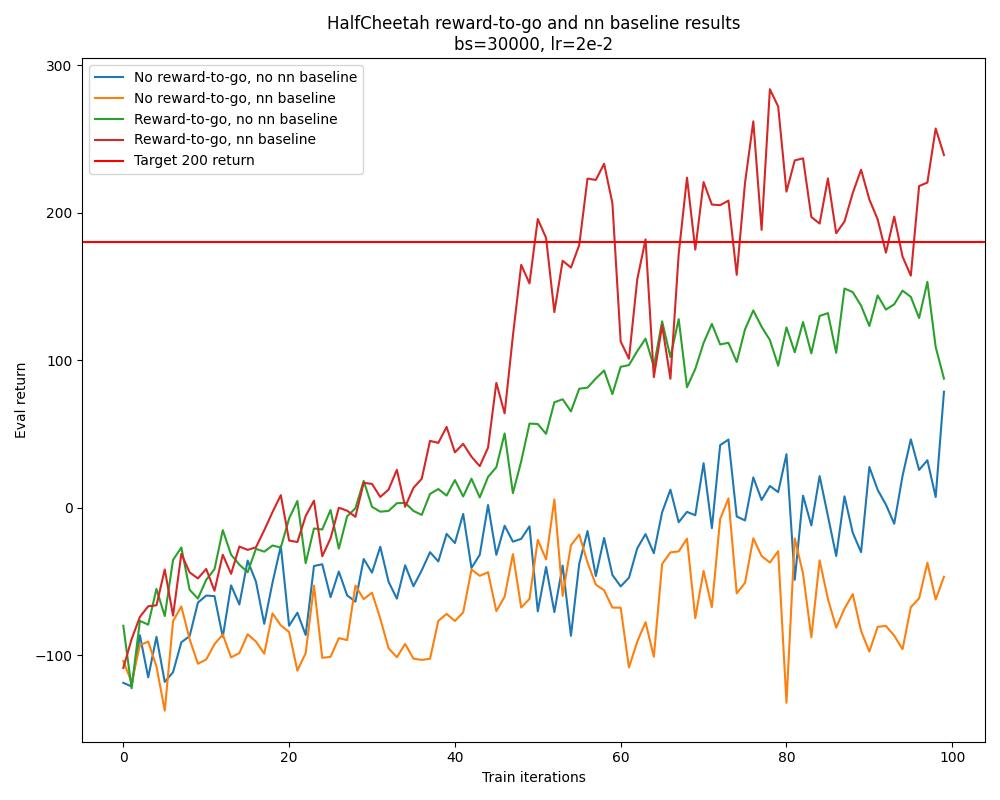
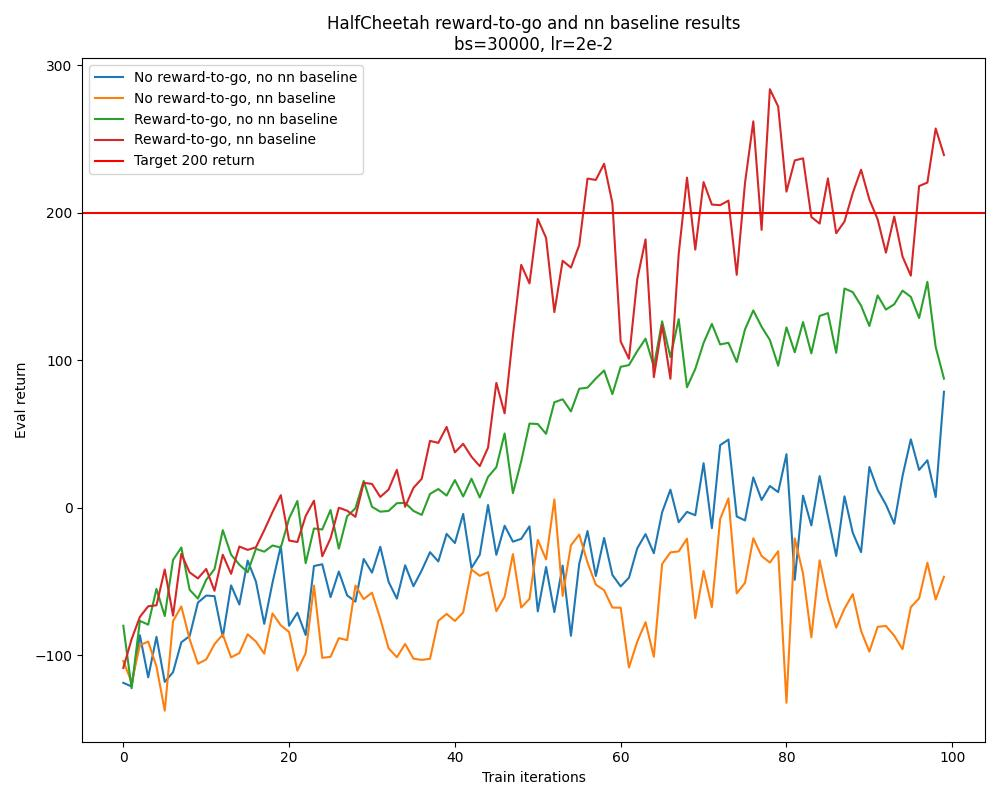
adding 8.5 to report

Changed region(s): [[0.093, 0.25, 0.992, 0.3125]]

diff --git a/hw2/cs285/scripts/create_graphs.py b/hw2/cs285/scripts/create_graphs.py
@@ -252,7 +252,7 @@ def q_7_4_2():
 
         ax.plot(steps, returns, label=config_name)
 
-    ax.axhline(180, color="red", label="Target 200 return")
+    ax.axhline(200, color="red", label="Target 200 return")
 
     ax.set_title(f"HalfCheetah reward-to-go and nn baseline results\nbs=30000, lr=2e-2")
     ax.set_xlabel("Train iterations")
@@ -263,5 +263,32 @@ def q_7_4_2():
     fig.savefig("report_resources/q7_4_2.jpg")
 
 
+def q_8_5():
+    prefix_template = "q2_pg_q5_b2000_r0.001_lambda{gae_lambda}"
+    gae_lambdas = ["0", "0.95", "0.98", "0.99", "1"]
+
+    rows, cols = 1, 1
+    fig, ax = plt.subplots(rows, cols, figsize=(10 * cols, 8 * rows))
+
+    for gae_lambda in gae_lambdas:
+        experiment_prefix = prefix_template.format(
+            gae_lambda=gae_lambda
+        )
+
+        steps, returns = get_eval_averagereturns(experiment_prefix)
+
+        ax.plot(steps, returns, label=f"gae lambda={gae_lambda}")
+
+    ax.axhline(400, color="red", label="Target 400 return")
+
+    ax.set_title(f"Hopper-v4 GAE lambda results\nbs=2000, lr=1e-3")
+    ax.set_xlabel("Train iterations")
+    ax.set_ylabel("Eval return")
+    ax.legend()
+
+    fig.tight_layout()
+    fig.savefig("report_resources/q8_5.jpg")
+
+
 if __name__ == "__main__":
-    q_7_4_2()
+    q_8_5()

diff --git a/hw2/report.md b/hw2/report.md
@@ -71,3 +71,16 @@ For run replication, see `scripts/run_7_4_2.sh`.
 
 <div style="page-break-after: always;"></div>
 
+
+### Exercise 8.5
+For run replication, see `scripts/run_8_5.sh`.
+
+
+As we increase lambda, our variance decreases and our final average return increases.
+
+
+![](report_resources/q8_5.jpg)
+
+
+<div style="page-break-after: always;"></div>
+
